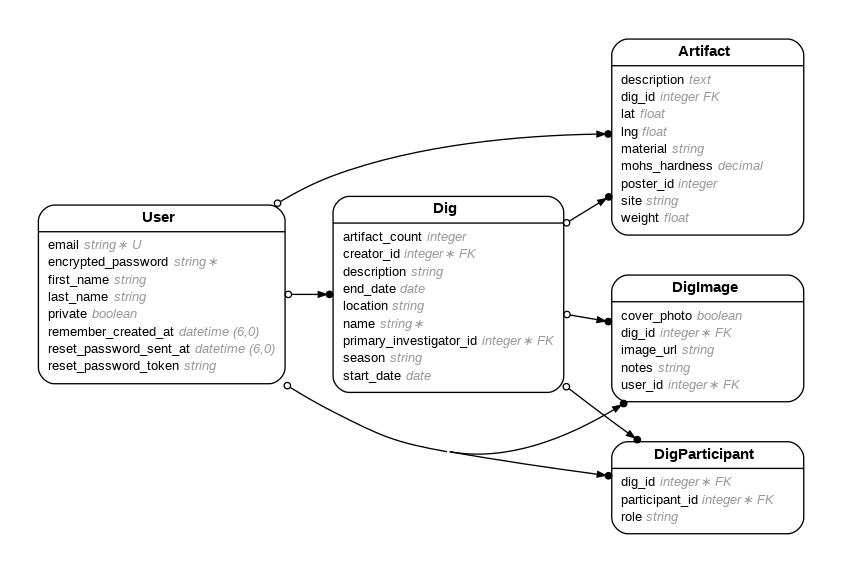
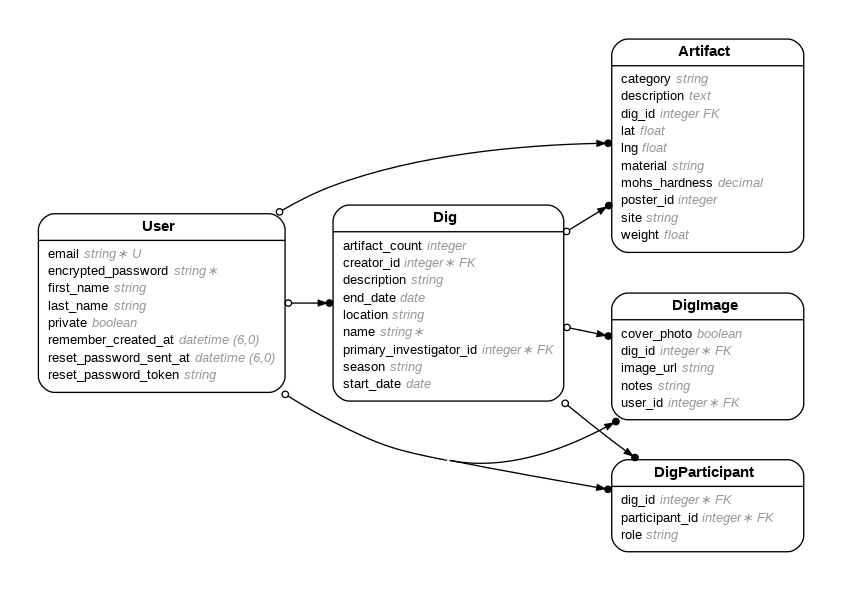
Create artifact works

diff --git a/app/controllers/artifacts_controller.rb b/app/controllers/artifacts_controller.rb
@@ -1,4 +1,5 @@
 class ArtifactsController < ApplicationController
+  before_action :set_dig
   before_action :set_artifact, only: %i[ show edit update destroy ]
 
   # GET /artifacts or /artifacts.json
@@ -25,7 +26,7 @@ class ArtifactsController < ApplicationController
 
     respond_to do |format|
       if @artifact.save
-        format.html { redirect_to artifact_url(@artifact), notice: "Artifact was successfully created." }
+        format.html { redirect_to dig_artifact_url(@dig, @artifact), notice: "Artifact was successfully created." }
         format.json { render :show, status: :created, location: @artifact }
       else
         format.html { render :new, status: :unprocessable_entity }
@@ -66,5 +67,10 @@ class ArtifactsController < ApplicationController
     # Only allow a list of trusted parameters through.
     def artifact_params
       params.require(:artifact).permit(:lat, :lng, :description, :material, :mohs_hardness, :weight, :dig_id, :site, :poster_id)
+    end
+
+    def set_dig
+      @dig = Dig.find_by(id: params.fetch(:dig_id))
+      pp @dig
     end
 end

diff --git a/db/schema.rb b/db/schema.rb
@@ -10,7 +10,7 @@
 #
 # It's strongly recommended that you check this file into your version control system.
 
-ActiveRecord::Schema[7.0].define(version: 2023_11_07_170849) do
+ActiveRecord::Schema[7.0].define(version: 2023_11_07_174307) do
   create_table "artifacts", force: :cascade do |t|
     t.float "lat"
     t.float "lng"
@@ -23,6 +23,7 @@ ActiveRecord::Schema[7.0].define(version: 2023_11_07_170849) do
     t.integer "poster_id"
     t.datetime "created_at", null: false
     t.datetime "updated_at", null: false
+    t.string "category"
   end
 
   create_table "dig_images", force: :cascade do |t|

diff --git a/app/models/artifact.rb b/app/models/artifact.rb
@@ -3,6 +3,7 @@
 # Table name: artifacts
 #
 #  id            :integer          not null, primary key
+#  category      :string
 #  description   :text
 #  lat           :float
 #  lng           :float
@@ -16,7 +17,6 @@
 #  poster_id     :integer
 #
 class Artifact < ApplicationRecord
-  belongs_to :dig
-  belongs_to :user
-  
+  # belongs_to :dig, class_name: "Dig", foreign_key: "dig_id"
+  belongs_to :poster, class_name: "User", foreign_key: "poster_id"
 end

diff --git a/app/models/user.rb b/app/models/user.rb
@@ -26,5 +26,5 @@ class User < ApplicationRecord
          :recoverable, :rememberable, :validatable
   has_many :created_digs, class_name: "Dig", foreign_key: "creator_id"
   has_many :directed_digs, class_name: "Dig", foreign_key: "primary_investigator_id"
-  has_many :artifacts
+  has_many :created_artifacts, class_name: "Artifact", foreign_key: "poster_id"
 end

diff --git a/config/routes.rb b/config/routes.rb
@@ -1,8 +1,9 @@
 Rails.application.routes.draw do
-  resources :artifacts
-  resources :dig_images
+
   resources :digs do
     resources :dig_participants
+    resources :artifacts
+    resources :dig_images
   end
   devise_for :users
   # Define your application routes per the DSL in https://guides.rubyonrails.org/routing.html

diff --git a/db/migrate/20231107174307_add_category_to_artifact.rb b/db/migrate/20231107174307_add_category_to_artifact.rb
@@ -1,0 +1,5 @@
+class AddCategoryToArtifact < ActiveRecord::Migration[7.0]
+  def change
+    add_column :artifacts, :category, :string
+  end
+end
